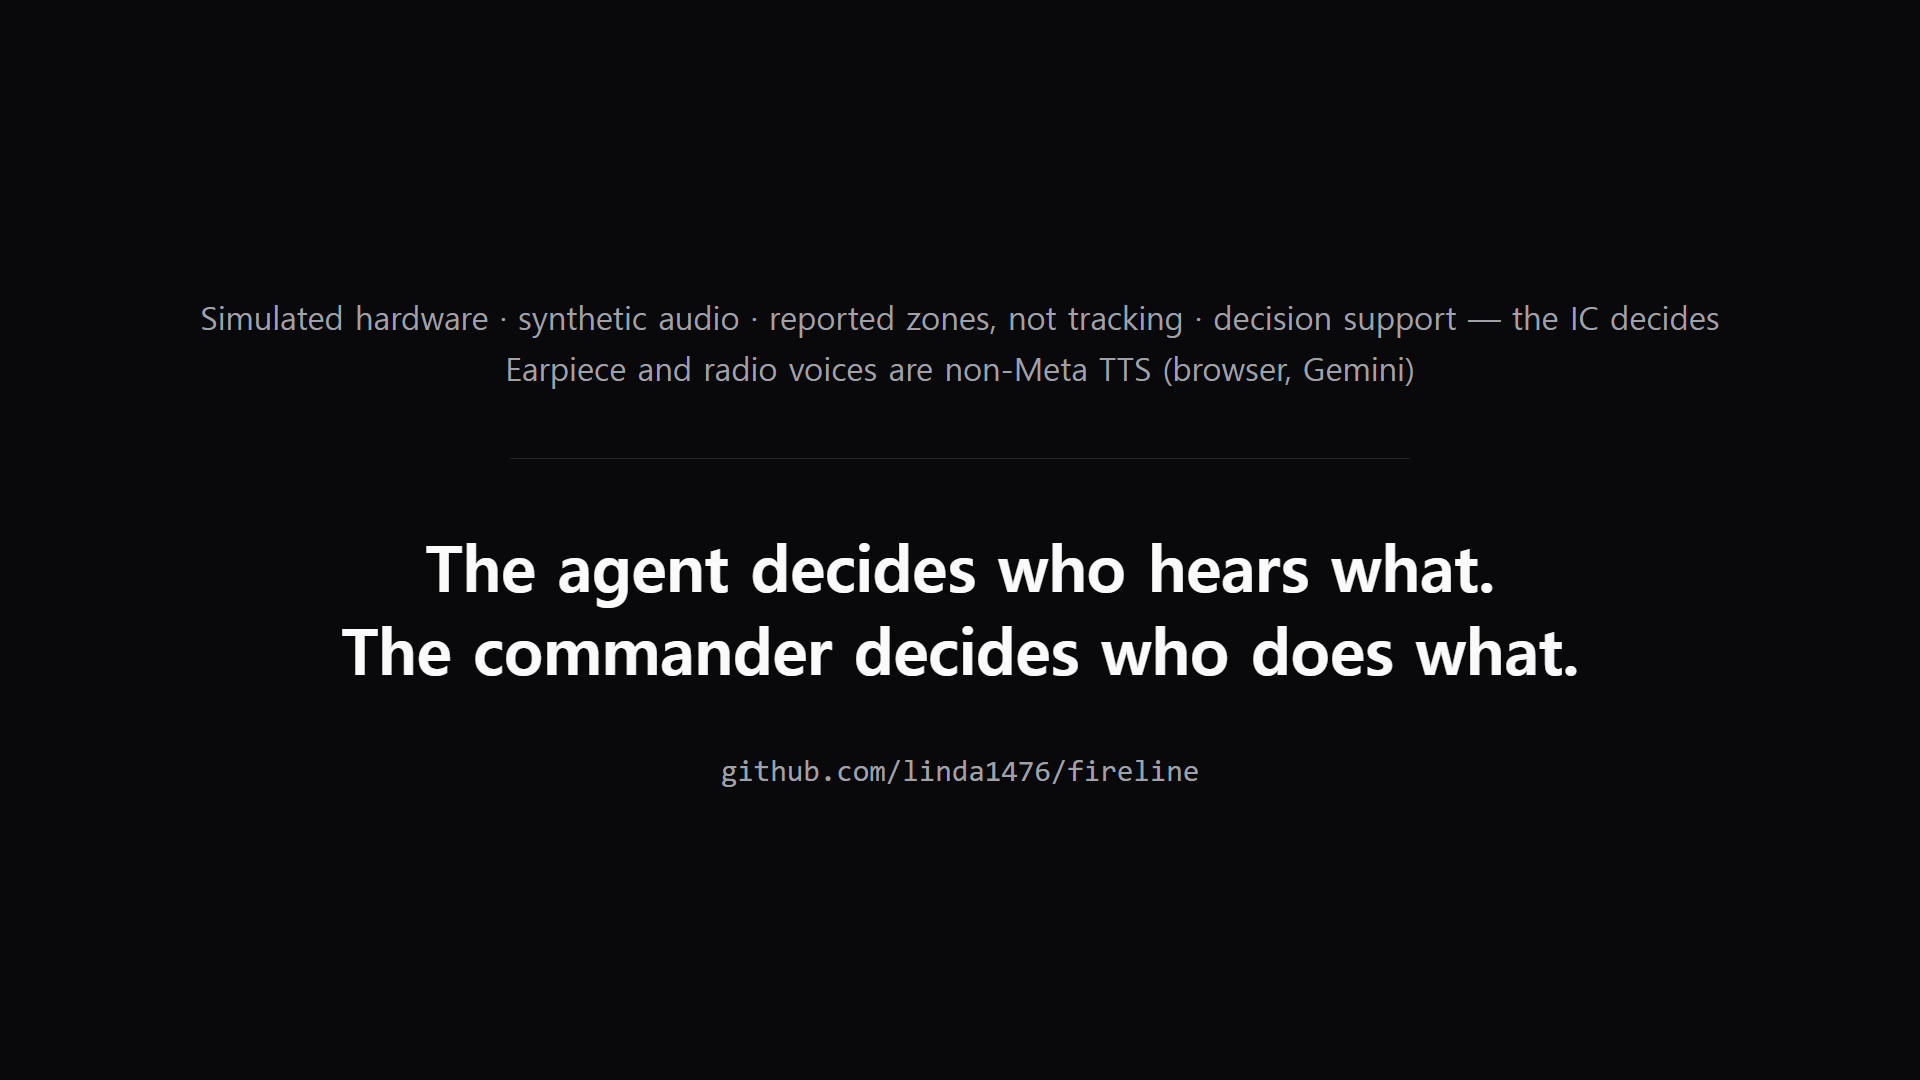
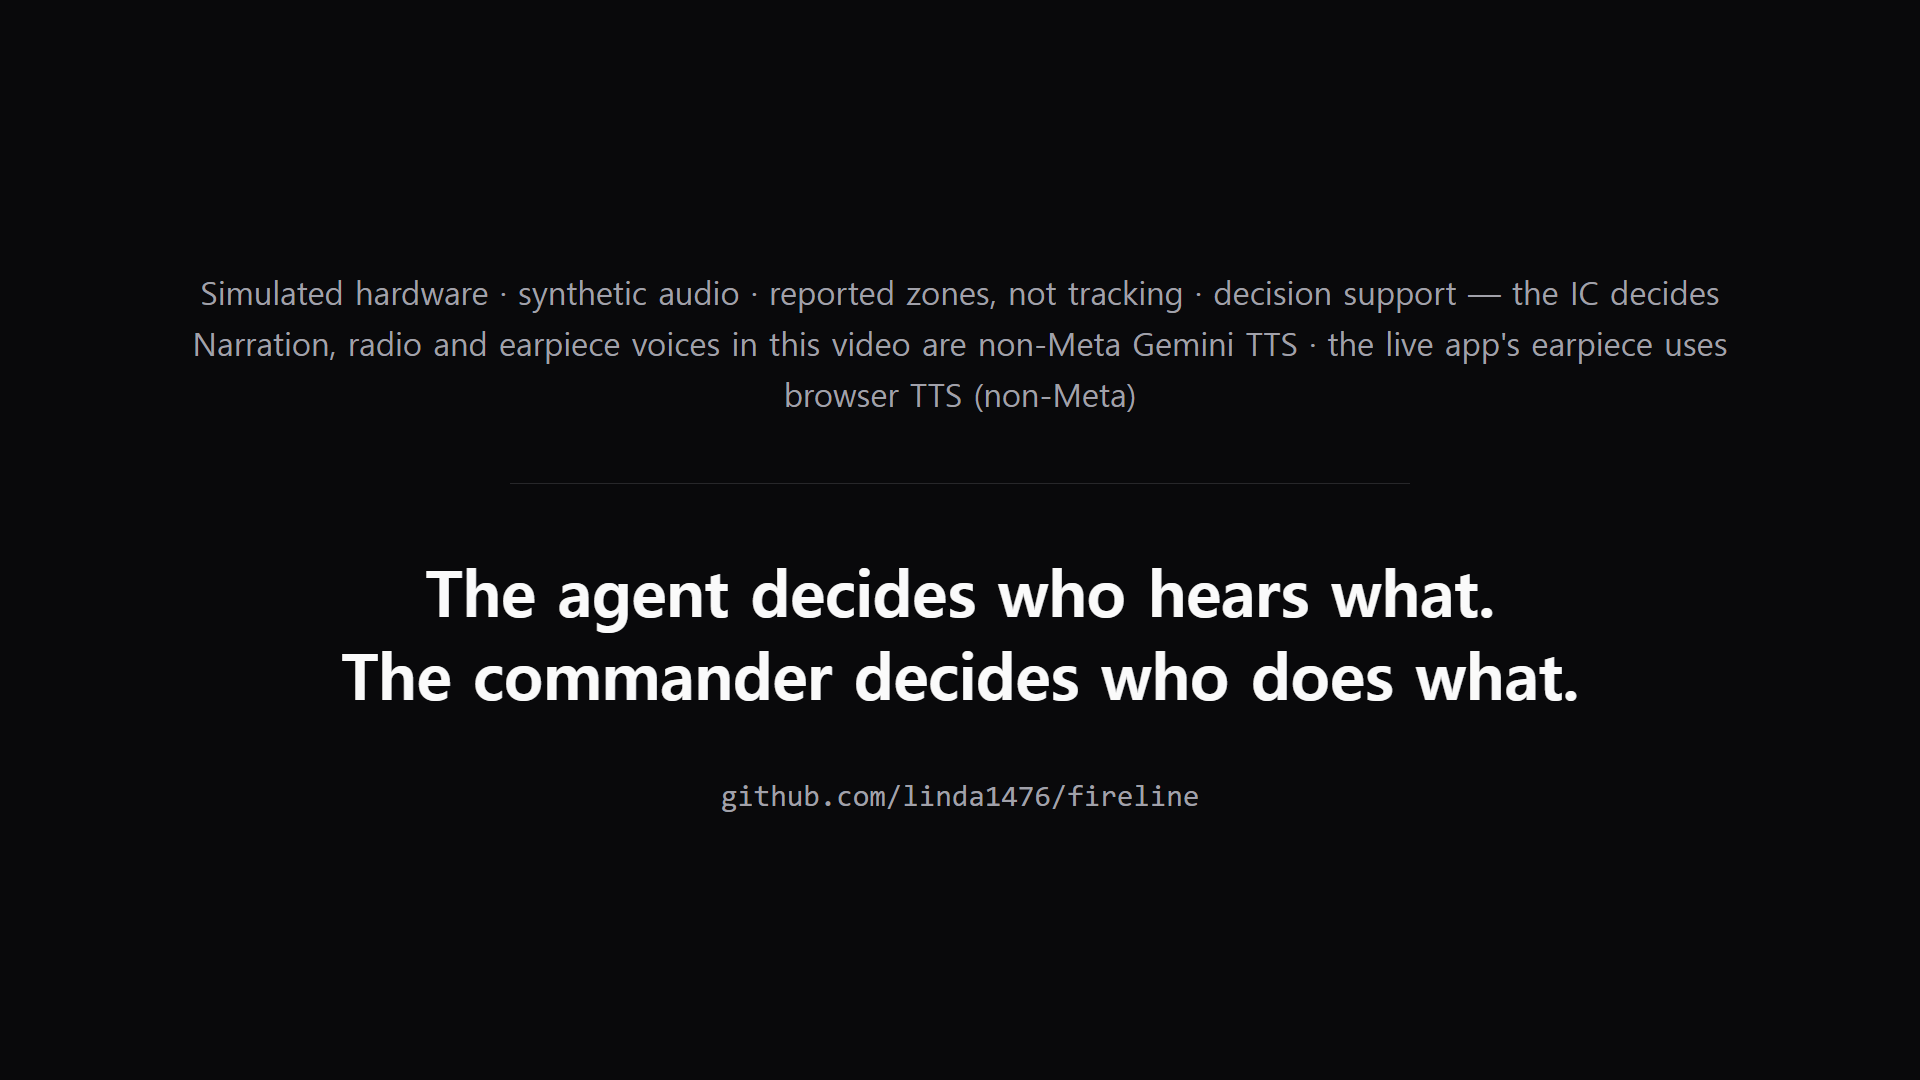
Submission pass: README accuracy fixes, video disclosure, LICENSE, stale files removed
- README: video/release link + Meta models + eval on the first screen; live-run
  latencies from best.jsonl (p50 4.3 s, 2.7-8.0 s); keyword counts 61 ko / 32 en;
  Bucheon framing "isolation recognised at 09:09"; Gemini TTS disclosure covers
  the video narration and earpiece clips; run-it in 3 commands (REPLAY needs no
  key); rule thresholds; full source URLs
- Video: hook cards + narration say "isolation recognised", RIT 09:20, 35.6 %;
  close card discloses Gemini TTS for narration/radio/earpiece; hook 13.5 s,
  close 10.5 s (177.3 s total); scripts/render_cards.py (Playwright)
- LICENSE (MIT + CC BY 4.0 for data), web/README, docs/VIDEO_SCRIPT.md as built
- Removed: data/RECORDING_SCRIPT.md, docs/UI_NOTES.md, unused Vite template assets
- .env.example EARSHOT_AGENT_TIMEOUT=12 (matches code + README); unused sam_model
  removed; stale TODO comments reworded

Changed region(s): [[0.1562, 0.4889, 0.8125, 0.6722], [0.0938, 0.2444, 0.9062, 0.3972], [0.375, 0.7028, 0.625, 0.7639]]

diff --git a/video/cards/hook_1.html b/video/cards/hook_1.html
@@ -20,7 +20,7 @@ body{background:#000}
 </style></head><body>
 <div class="wrap"><div class="new l">Bucheon, 16 October 2026.</div>
 <div class="hide l"><span class="hide s">08:48 — a crew reports flammables.</span><span class="hide s">08:52 — offensive strategy declared.</span></div>
-<div class="hide l"><span class="hide s">09:09 — a firefighter is isolated.</span><span class="hide s">09:35 — found.</span><span class="hide s">RIT ordered at 09:20.</span></div>
+<div class="hide l"><span class="hide s">09:09 — isolation recognised.</span><span class="hide s">09:35 — found.</span><span class="hide s">RIT ordered at 09:20.</span></div>
 <div class="hide rule"></div><div class="hide l red">35.6% of maydays are missed on the first call.</div>
 <div class="hide src">Project Mayday, &gt;9,000 maydays (Fire Engineering 2021) · Kyunghyang 2026-10-23 · Hankook Ilbo 2026-10-20</div></div>
 </body></html>

diff --git a/video/cards/hook_2.html b/video/cards/hook_2.html
@@ -20,7 +20,7 @@ body{background:#000}
 </style></head><body>
 <div class="wrap"><div class="l">Bucheon, 16 October 2026.</div>
 <div class="new l"><span class="s">08:48 — a crew reports flammables.</span><span class="s">08:52 — offensive strategy declared.</span></div>
-<div class="hide l"><span class="hide s">09:09 — a firefighter is isolated.</span><span class="hide s">09:35 — found.</span><span class="hide s">RIT ordered at 09:20.</span></div>
+<div class="hide l"><span class="hide s">09:09 — isolation recognised.</span><span class="hide s">09:35 — found.</span><span class="hide s">RIT ordered at 09:20.</span></div>
 <div class="hide rule"></div><div class="hide l red">35.6% of maydays are missed on the first call.</div>
 <div class="hide src">Project Mayday, &gt;9,000 maydays (Fire Engineering 2021) · Kyunghyang 2026-10-23 · Hankook Ilbo 2026-10-20</div></div>
 </body></html>

diff --git a/video/cards/hook_3.html b/video/cards/hook_3.html
@@ -20,7 +20,7 @@ body{background:#000}
 </style></head><body>
 <div class="wrap"><div class="l">Bucheon, 16 October 2026.</div>
 <div class="l"><span class="s">08:48 — a crew reports flammables.</span><span class="s">08:52 — offensive strategy declared.</span></div>
-<div class="new l"><span class="s">09:09 — a firefighter is isolated.</span><span class="s">09:35 — found.</span><span class="s">RIT ordered at 09:20.</span></div>
+<div class="new l"><span class="s">09:09 — isolation recognised.</span><span class="s">09:35 — found.</span><span class="s">RIT ordered at 09:20.</span></div>
 <div class="hide rule"></div><div class="hide l red">35.6% of maydays are missed on the first call.</div>
 <div class="hide src">Project Mayday, &gt;9,000 maydays (Fire Engineering 2021) · Kyunghyang 2026-10-23 · Hankook Ilbo 2026-10-20</div></div>
 </body></html>

diff --git a/video/cards/hook_4.html b/video/cards/hook_4.html
@@ -20,7 +20,7 @@ body{background:#000}
 </style></head><body>
 <div class="wrap"><div class="l">Bucheon, 16 October 2026.</div>
 <div class="l"><span class="s">08:48 — a crew reports flammables.</span><span class="s">08:52 — offensive strategy declared.</span></div>
-<div class="l"><span class="s">09:09 — a firefighter is isolated.</span><span class="s">09:35 — found.</span><span class="s">RIT ordered at 09:20.</span></div>
+<div class="l"><span class="s">09:09 — isolation recognised.</span><span class="s">09:35 — found.</span><span class="s">RIT ordered at 09:20.</span></div>
 <div class="rule"></div><div class="l red new">35.6% of maydays are missed on the first call.</div>
 <div class="hide src">Project Mayday, &gt;9,000 maydays (Fire Engineering 2021) · Kyunghyang 2026-10-23 · Hankook Ilbo 2026-10-20</div></div>
 </body></html>

diff --git a/video/cards/hook_5.html b/video/cards/hook_5.html
@@ -20,7 +20,7 @@ body{background:#000}
 </style></head><body>
 <div class="wrap"><div class="l">Bucheon, 16 October 2026.</div>
 <div class="l"><span class="s">08:48 — a crew reports flammables.</span><span class="s">08:52 — offensive strategy declared.</span></div>
-<div class="l"><span class="s">09:09 — a firefighter is isolated.</span><span class="s">09:35 — found.</span><span class="s">RIT ordered at 09:20.</span></div>
+<div class="l"><span class="s">09:09 — isolation recognised.</span><span class="s">09:35 — found.</span><span class="s">RIT ordered at 09:20.</span></div>
 <div class="rule"></div><div class="l red">35.6% of maydays are missed on the first call.</div>
 <div class="src">Project Mayday, &gt;9,000 maydays (Fire Engineering 2021) · Kyunghyang 2026-10-23 · Hankook Ilbo 2026-10-20</div></div>
 </body></html>

diff --git a/video/cards/close.html b/video/cards/close.html
@@ -15,7 +15,7 @@ html,body{width:1920px;height:1080px;overflow:hidden;background:#09090b;color:#f
 </style></head><body>
 
 <div class="center">
-  <div class="top">Simulated hardware · synthetic audio · reported zones, not tracking · decision support — the IC decides<br>Earpiece and radio voices are non-Meta TTS (browser, Gemini)</div>
+  <div class="top">Simulated hardware · synthetic audio · reported zones, not tracking · decision support — the IC decides<br>Narration, radio and earpiece voices in this video are non-Meta Gemini TTS · the live app's earpiece uses browser TTS (non-Meta)</div>
   <div class="rule"></div>
   <div class="big">The agent decides who hears what.<br>The commander decides who does what.</div>
   <div class="gh">github.com/linda1476/fireline</div>

diff --git a/web/src/lib/api.ts b/web/src/lib/api.ts
@@ -62,7 +62,7 @@ export interface ScenarioLine {
   text_en?: string
   [k: string]: unknown
 }
-// TODO(main.py): confirm response shape; accept either a bare list or {lines: [...]}.
+// accepts either a bare list or {lines: [...]}
 export async function getScenarioLines(): Promise<ScenarioLine[]> {
   const r = await req<ScenarioLine[] | { lines: ScenarioLine[] }>("GET", "/api/scenario/lines")
   return Array.isArray(r) ? r : (r?.lines ?? [])

diff --git a/web/src/components/crew/CrewView.tsx b/web/src/components/crew/CrewView.tsx
@@ -9,7 +9,7 @@ import { cn } from "@/lib/utils"
 import HoldButton from "./HoldButton"
 import EarpieceLine from "./EarpieceLine"
 
-// TODO(main.py): relies on /api/scenario/lines carrying `kind` or `channel` per line
+// /api/scenario/lines items carry `channel` (and `kind`) per line
 type ScenarioLine = { id: string; t?: number; unit?: string; kind?: unknown; channel?: unknown }
 
 function normaliseLines(raw: unknown): ScenarioLine[] {

diff --git a/eval/run_eval.py b/eval/run_eval.py
@@ -95,7 +95,7 @@ def gate_ok(text: str) -> bool:
     try:
         from server.gate import should_triage
         return bool(should_triage(text))
-    except ImportError:  # TODO(eval): server.gate not present at build time; thin fallback
+    except ImportError:  # fallback for standalone use
         return len((text or "").split()) >= 2
 
 
@@ -110,7 +110,7 @@ crew_brief: at most 2 sentences, in the same language as the transcript."""
 async def run_triage(text: str, lang: str, channel: str) -> tuple[Triage, int, dict[str, Any]]:
     try:
         from server.triage import triage as _triage
-    except ImportError:  # TODO(eval): server.triage not present at build time; thin fallback on SparkClient
+    except ImportError:  # fallback for standalone use
         _triage = None
     if _triage is not None:
         return await _triage(text, lang, channel)
@@ -132,7 +132,7 @@ def run_verify(tri: Triage, text: str) -> bool:
         from server.verify import verify
         ok, _ = verify(tri, text)
         return bool(ok)
-    except ImportError:  # TODO(eval): server.verify fallback
+    except ImportError:  # fallback for standalone use
         return evidence_verbatim(tri.evidence_span, text)
 
 
@@ -146,7 +146,7 @@ def snap_unit(raw: str | None, roster: list[Unit], lang: str) -> str | None:
     try:
         from server.verify import snap_unit as _snap
         return _snap(raw, lang, {u.id: u for u in roster})  # verify.snap_unit(raw, lang, roster: dict)
-    except ImportError:  # TODO(eval): server.verify.snap_unit fallback (rapidfuzz over aliases)
+    except ImportError:  # fallback for standalone use (rapidfuzz over aliases)
         from rapidfuzz import fuzz
         best, best_s = None, 0.0
         r = norm(raw)
@@ -175,7 +175,7 @@ ASR_KEYWORD_MAX_CHARS = 30  # measured: 400 "ASR keyword N exceeds the maximum l
 
 def asr_keywords(lang: str, on: bool) -> list[str] | None:
     """kw on -> project list for lang minus terms the API rejects (>30 chars, e.g. 'personnel accountability
-    report' in keywords.json en); kw off -> []. TODO(keywords.json owner): drop/shorten that en term."""
+    report' in keywords.json en); kw off -> []. (that en term is kept as is)."""
     if not on:
         return []
     from server.config import load_keywords
@@ -185,7 +185,7 @@ def asr_keywords(lang: str, on: bool) -> list[str] | None:
 # ============================================================================ memo
 class Memo:
     """Input-hash memo (sha256(kind + canonical input)) for ASR and triage. EARSHOT_MEMO=1 / --memo.
-    TODO(eval): switch to server.cache.memo once its signature is final; this local file is equivalent."""
+    A local memo file equivalent to server.cache.memo."""
 
     def __init__(self, enabled: bool, path: Path = EVAL_DIR / ".memo.jsonl"):
         self.enabled, self.path, self.d = enabled, path, {}

diff --git a/scripts/build_video.py b/scripts/build_video.py
@@ -25,11 +25,11 @@ RADIO = ROOT / "data" / "audio" / "radio"
 FPS = 30
 
 # ------------------------------------------------------------------ timeline design (video seconds)
-HOOK = [("hook_1", 2.0), ("hook_2", 2.4), ("hook_3", 2.6), ("hook_4", 2.2), ("hook_5", 1.8)]   # 11.0 s
+HOOK = [("hook_1", 2.5), ("hook_2", 2.9), ("hook_3", 3.1), ("hook_4", 2.7), ("hook_5", 2.3)]   # 13.5 s (vo_01 20.4 s fits at ×1.17)
 TITLE_S = 5.0
 # run-time segments: (run_t0, run_t1, speed)
 SEGMENTS = [(0.0, 34.0, 2.4), (34.0, 101.0, 1.0), (101.0, 119.5, 1.6), (119.5, 126.0, 1.0), (126.0, 167.5, 1.8)]
-HOOD_MIN_S, CLOSE_S = 15.0, 12.0
+HOOD_MIN_S, CLOSE_S = 15.0, 10.5
 
 # earpiece lines: (run_t, unit, voice file key, EN subtitle)   unit: kim | park
 EAR = [
@@ -37,7 +37,7 @@ EAR = [
     (99.3, "kim", "ear_b02", "Kim's earpiece · What do you need? Ladder, air cylinder…"),
     (102.3, "park", "ear_b03", "Park's earpiece · Member trapped in the 2F east storeroom, ceiling collapse, low on air."),
     (111.6, "park", "ear_b04", "Park's earpiece · Trapped member moving to the east windows; needs a ladder and an air cylinder."),
-    (120.6, "kim", "ear_b05", "Kim's earpiece · Rescue team on the way. Hold your position."),
+    (120.6, "kim", "ear_b05", "Kim's earpiece (IC-approved) · Rescue team on the way. Hold your position."),
     (123.8, "park", "ear_b06", "Park's earpiece · All units: radio silence. Emergency traffic only."),
     (128.7, "park", "ear_ping", "Park's earpiece · Nuri Station Park, respond."),
     (136.8, "park", "ear_ping", "Park's earpiece · Nuri Station Park, respond. (2)"),

diff --git a/scripts/make_voices.py b/scripts/make_voices.py
@@ -10,7 +10,7 @@ VO_VOICE, VO_STYLE = "Charon", "Narrate this at a brisk, confident documentary p
 EAR_VOICE, EAR_STYLE = "Kore", "Say this as a short, flat, synthetic earpiece announcement, clearly and a little quickly"
 
 VO = {
- "vo_01": "Bucheon, last month. Flammables reported at 8:48. Offensive strategy at 8:52. A firefighter isolated at 9:09, found at 9:35. Across nine thousand maydays, more than a third are missed on the first call.",
+ "vo_01": "Bucheon, last month. Flammables reported at 8:48, offensive strategy at 8:52. Isolation recognised at 9:09, rescue team ordered at 9:20, found at 9:35. Across more than nine thousand maydays, 35.6 percent are missed on the first call.",
  "vo_02": "Korea's AI for 119 listens to citizens calling in. Earshot listens to the crew. Two radio channels, Meta's Muse speech model on both, and an agent that decides who hears what.",
  "vo_03": "Five transmissions. One card. The exterior captain reports thinner drums on the third floor. Spark tags it danger, five and a half seconds after he stops talking. The commander declared offensive a minute ago, so the agent asks: confirm strategy? Kim, directly below, hears one sentence in her earpiece. Park, on the other side of the building, hears nothing. That's the point.",
  "vo_04": "Kim finds a victim. One gloved hold, one sentence. Muse transcribes it, the pin lands on the floor plan, and the crew at the front door is told to expect her.",

diff --git a/scripts/render_cards.py b/scripts/render_cards.py
@@ -1,0 +1,33 @@
+"""Render video/cards/*.html to PNG with Playwright Chromium (1920x1080; viral_end is 1080x1920).
+
+Usage: uv run python scripts/render_cards.py [names...]   (default: every .html in video/cards)
+"""
+
+from __future__ import annotations
+
+import sys
+from pathlib import Path
+
+from playwright.sync_api import sync_playwright
+
+ROOT = Path(__file__).resolve().parents[1]
+CARDS = ROOT / "video" / "cards"
+
+
+def main() -> None:
+    names = sys.argv[1:] or sorted(p.stem for p in CARDS.glob("*.html"))
+    with sync_playwright() as p:
+        browser = p.chromium.launch(headless=True)
+        for name in names:
+            w, h = (1080, 1920) if name == "viral_end" else (1920, 1080)
+            page = browser.new_page(viewport={"width": w, "height": h}, device_scale_factor=1)
+            page.goto((CARDS / f"{name}.html").resolve().as_uri())
+            page.wait_for_timeout(300)
+            page.screenshot(path=str(CARDS / f"{name}.png"), full_page=False)
+            page.close()
+            print(f"{name}.png {w}x{h}")
+        browser.close()
+
+
+if __name__ == "__main__":
+    main()
